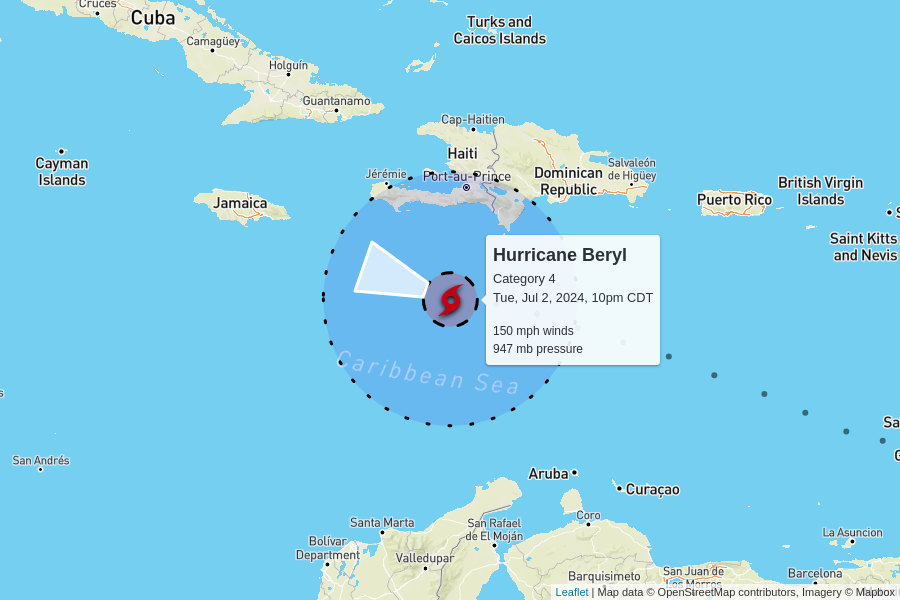
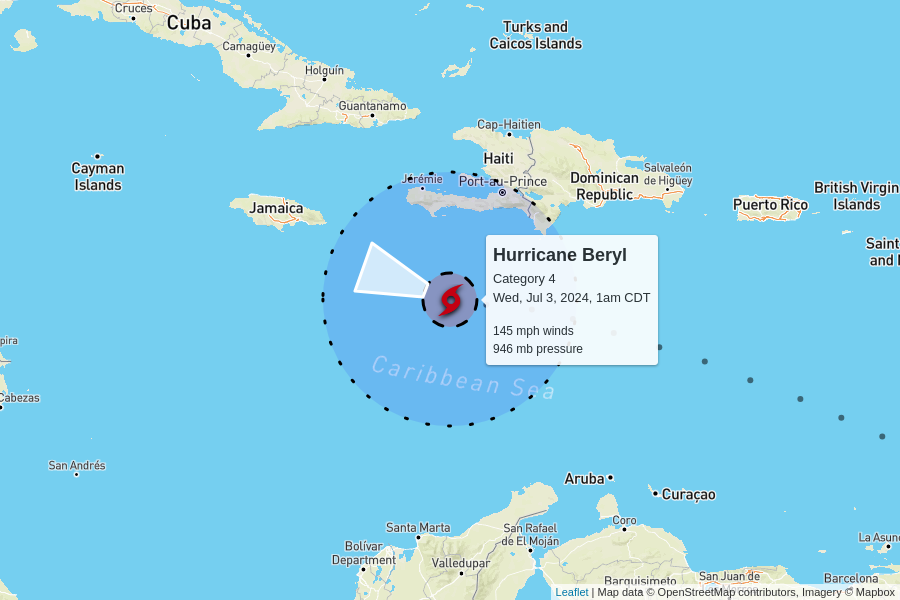
automatic update

diff --git a/docs/index.html b/docs/index.html
@@ -102,7 +102,7 @@
         <td colspan="6" class="storm category-4" >
           <h2>
             Hurricane Beryl - Category 4
-            <p class="updated">last updated <span data-time>2024-07-03T03:00:00.000Z</span></p>
+            <p class="updated">last updated <span data-time>2024-07-03T06:00:00.000Z</span></p>
           </h2>
         </td>
       </tr>
@@ -117,8 +117,8 @@
       </tr>
       <tr>
         <td class="spacer"></td>
-        <td>150 mph<br>0 mph since last update</td>
-        <td>947 mb<br>+4 mb since last update</td>
+        <td>145 mph<br>-5 mph since last update</td>
+        <td>946 mb<br>-1 mb since last update</td>
         <td>
           22 mph to the west-northwest
           <br/>
